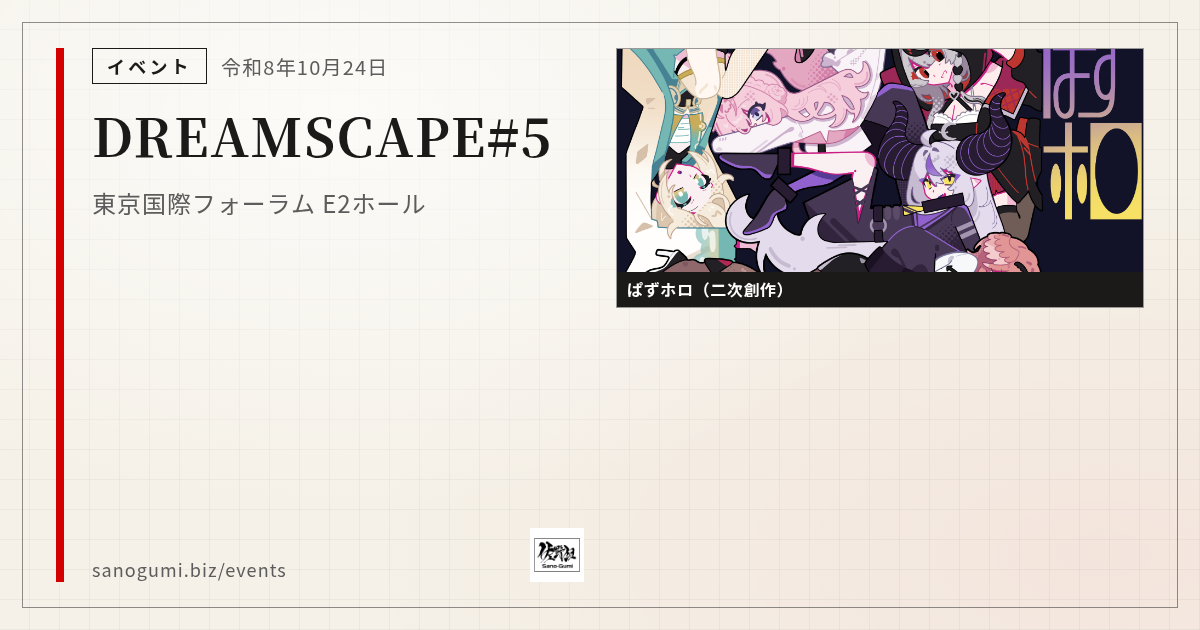
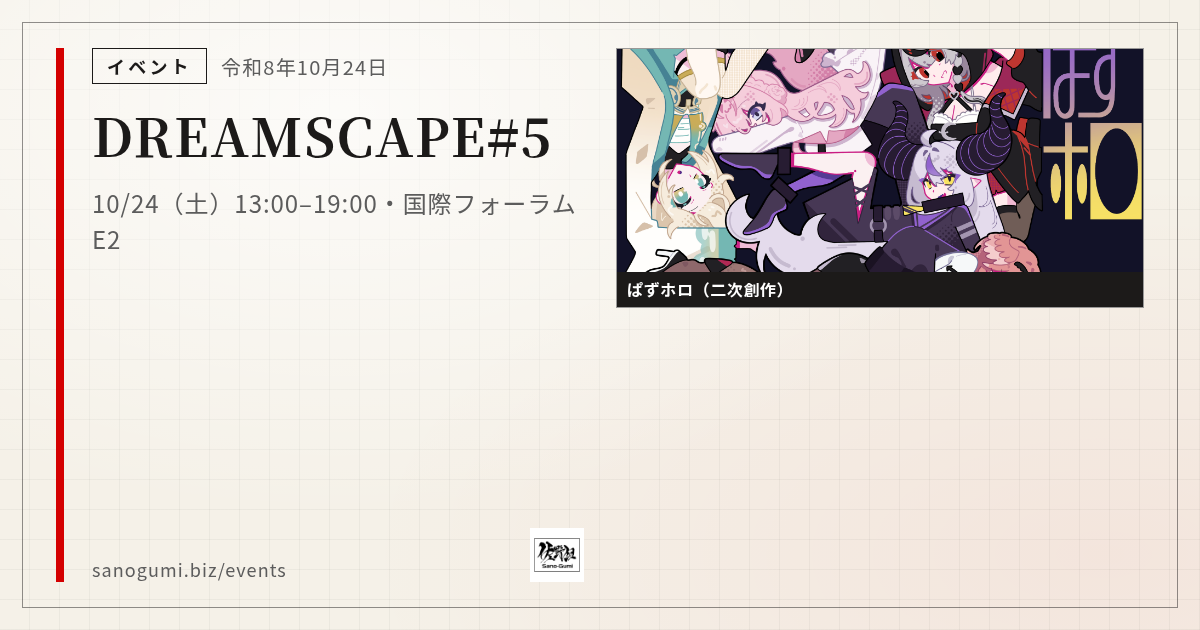
DREAMSCAPE#5 の公式時刻・案内URLを反映（正本 PR #121）
公式案内の 13:00–19:00（最終入場18:30）と URL を一覧・個別ページ・サムネに反映。

Changed region(s): [[0.0617, 0.3016, 0.4625, 0.3619], [0.0617, 0.3619, 0.0925, 0.3921]]

diff --git a/events/dreamscape-5/index.html b/events/dreamscape-5/index.html
@@ -15,7 +15,7 @@
   <!-- seo:end ga -->
   <meta name="viewport" content="width=device-width, initial-scale=1">
   <title>DREAMSCAPE#5 — 株式会社佐野組</title>
-  <meta name="description" content="2026年10月24日（土）東京国際フォーラム E2ホールで開催のDREAMSCAPE#5に、ぱずホロ（二次創作）で出展します。">
+  <meta name="description" content="2026年10月24日（土）13:00–19:00（最終入場18:30）東京国際フォーラム E2ホールで開催のDREAMSCAPE#5（13:00–19:00）に、ぱずホロ（二次創作）で出展します。">
   <meta name="theme-color" content="#ffffff">
   <link rel="icon" href="/assets/logo/s-logo-mark.svg" type="image/svg+xml">
   <link rel="stylesheet" href="/assets/css/site.css">
@@ -26,7 +26,7 @@
   <meta property="og:type" content="website">
   <meta property="og:site_name" content="株式会社佐野組">
   <meta property="og:title" content="DREAMSCAPE#5 — 株式会社佐野組">
-  <meta property="og:description" content="2026年10月24日（土）東京国際フォーラム E2ホールで開催のDREAMSCAPE#5に、ぱずホロ（二次創作）で出展します。">
+  <meta property="og:description" content="2026年10月24日（土）13:00–19:00（最終入場18:30）東京国際フォーラム E2ホールで開催のDREAMSCAPE#5（13:00–19:00）に、ぱずホロ（二次創作）で出展します。">
   <meta property="og:url" content="https://www.sanogumi.biz/events/dreamscape-5/">
   <meta property="og:locale" content="ja_JP">
   <meta property="og:image" content="https://www.sanogumi.biz/assets/img/topics/dreamscape-5.png">
@@ -73,11 +73,11 @@
   <main id="main" class="wrap wrap--wide event-detail">
     <p class="event-crumb"><a href="/events/">イベント出展</a> ／ DREAMSCAPE#5</p>
     
-    <p class="event-date"><time datetime="2026-10-24">2026-10-24（土）</time><!-- TODO: 開場・終了時刻は shutten.md に記載なし --></p>
+    <p class="event-date"><time datetime="2026-10-24">2026-10-24（土）</time> 13:00–19:00（最終入場 18:30）</p>
     <h1 class="page-title event-title">DREAMSCAPE#5</h1>
     <dl class="event-meta">
           <dt>会場</dt>
-          <dd>東京国際フォーラム E2ホール</dd>
+          <dd>東京国際フォーラム E2ホール（公式表記：国際フォーラムE2ホール／ホールE）</dd>
           <dt>主催</dt>
           <dd>WorldMap</dd>
           <dt>出展作品</dt>
@@ -94,7 +94,10 @@
       </li>
     </ul>
 
-    <!-- TODO: 公式イベントURLはリポジトリ内に見当たらず -->
+    <ul class="event-links">
+      <li><a href="https://dreamscape-game.com/news/2026/09/17/4116/" target="_blank" rel="noopener noreferrer">公式案内（DREAMSCAPE）</a></li>
+      <li><a href="https://dreamscape05.peatix.com" target="_blank" rel="noopener noreferrer">チケット（Peatix）</a></li>
+    </ul>
 
     <nav class="news-nav" aria-label="イベント出展の案内">
       <p><a href="/events/">イベント出展一覧に戻る</a></p>

diff --git a/events/index.html b/events/index.html
@@ -112,17 +112,16 @@
       </article>
 
       <article class="card event-card">
-        <p class="event-date"><time datetime="2026-10-24">2026-10-24（土）</time><!-- TODO: 開場・終了時刻は shutten.md に記載なし --></p>
+        <p class="event-date"><time datetime="2026-10-24">2026-10-24（土）</time> 13:00–19:00（最終入場 18:30）</p>
         <h2 class="event-title"><a href="/events/dreamscape-5/">DREAMSCAPE#5</a></h2>
         <dl class="event-meta">
           <dt>会場</dt>
-          <dd>東京国際フォーラム E2ホール</dd>
+          <dd>東京国際フォーラム E2ホール（公式表記：国際フォーラムE2ホール／ホールE）</dd>
           <dt>主催</dt>
           <dd>WorldMap</dd>
           <dt>出展作品</dt>
           <dd>ぱずホロ（二次創作）</dd>
         </dl>
-        <!-- TODO: 公式イベントURLはリポジトリ内に見当たらず -->
         <ul class="event-works">
           <li class="event-work">
             <img src="/assets/works/pazuholo.webp" alt="ぱずホロ" width="320" height="180" loading="lazy">
@@ -134,6 +133,7 @@
         </ul>
         <ul class="event-links">
           <li><a href="/events/dreamscape-5/">出展案内</a></li>
+          <li><a href="https://dreamscape-game.com/news/2026/09/17/4116/" target="_blank" rel="noopener noreferrer">公式案内</a></li>
         </ul>
       </article>
 
